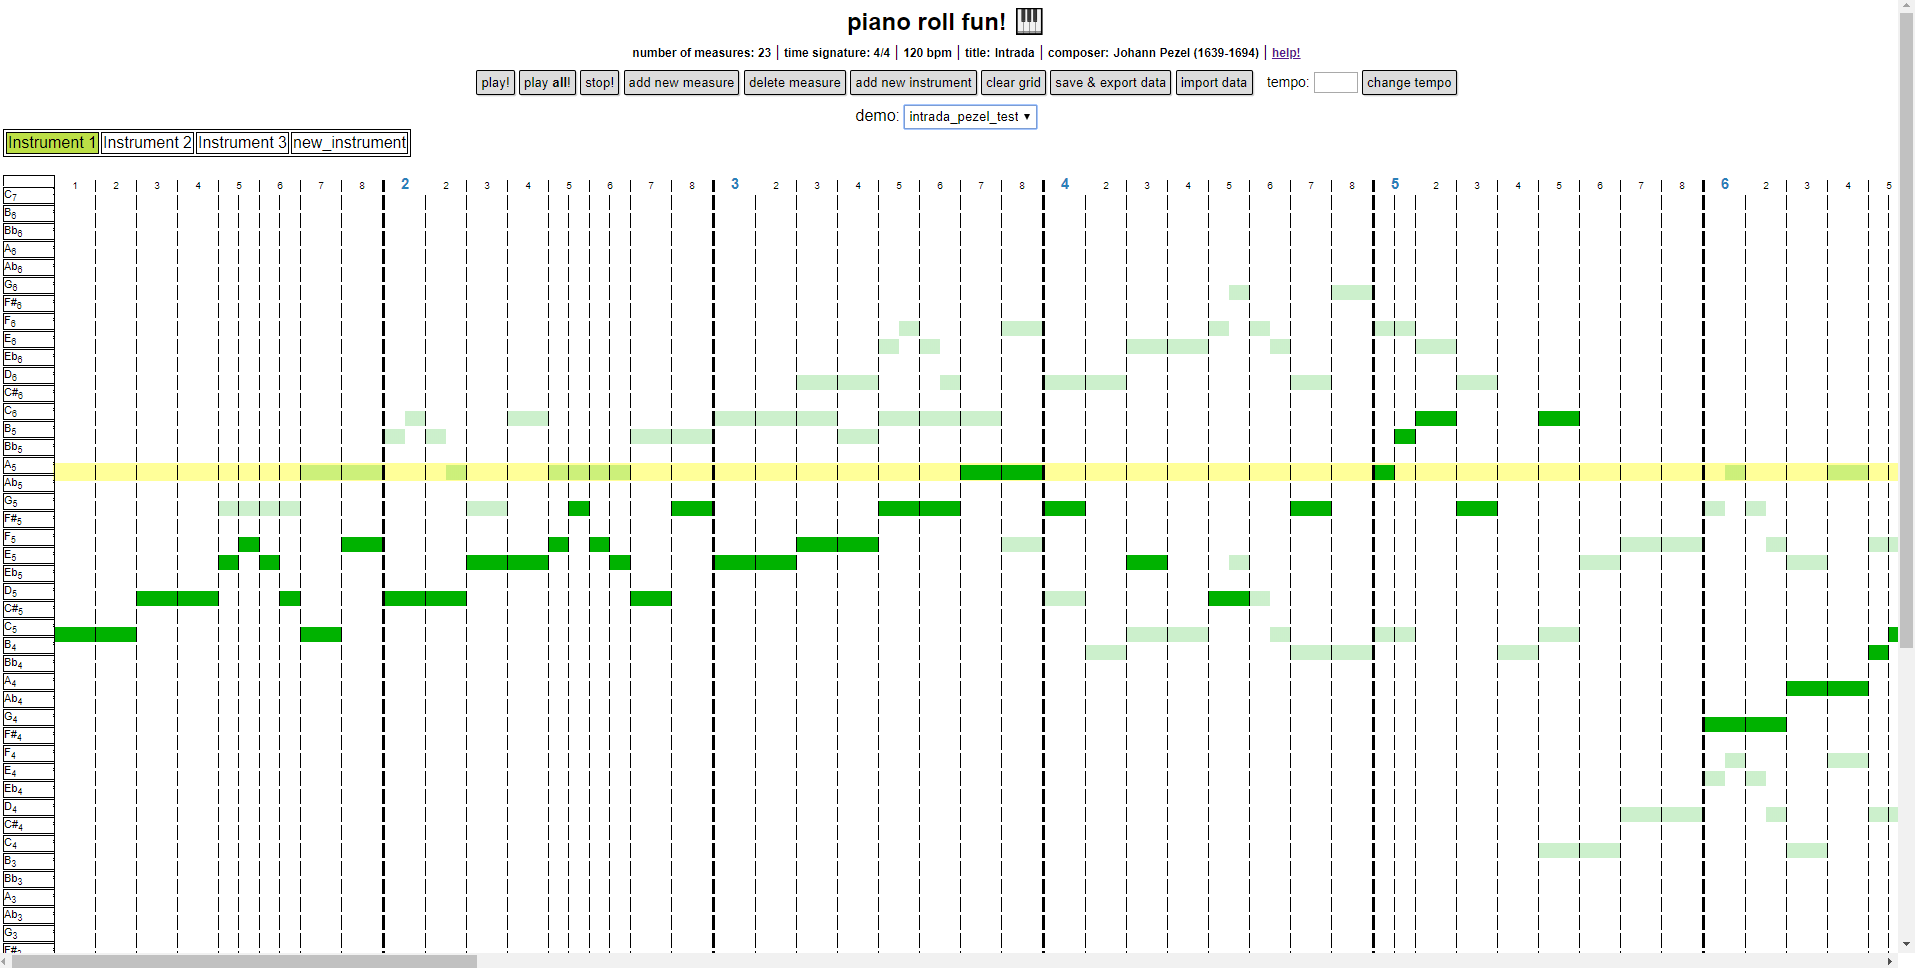
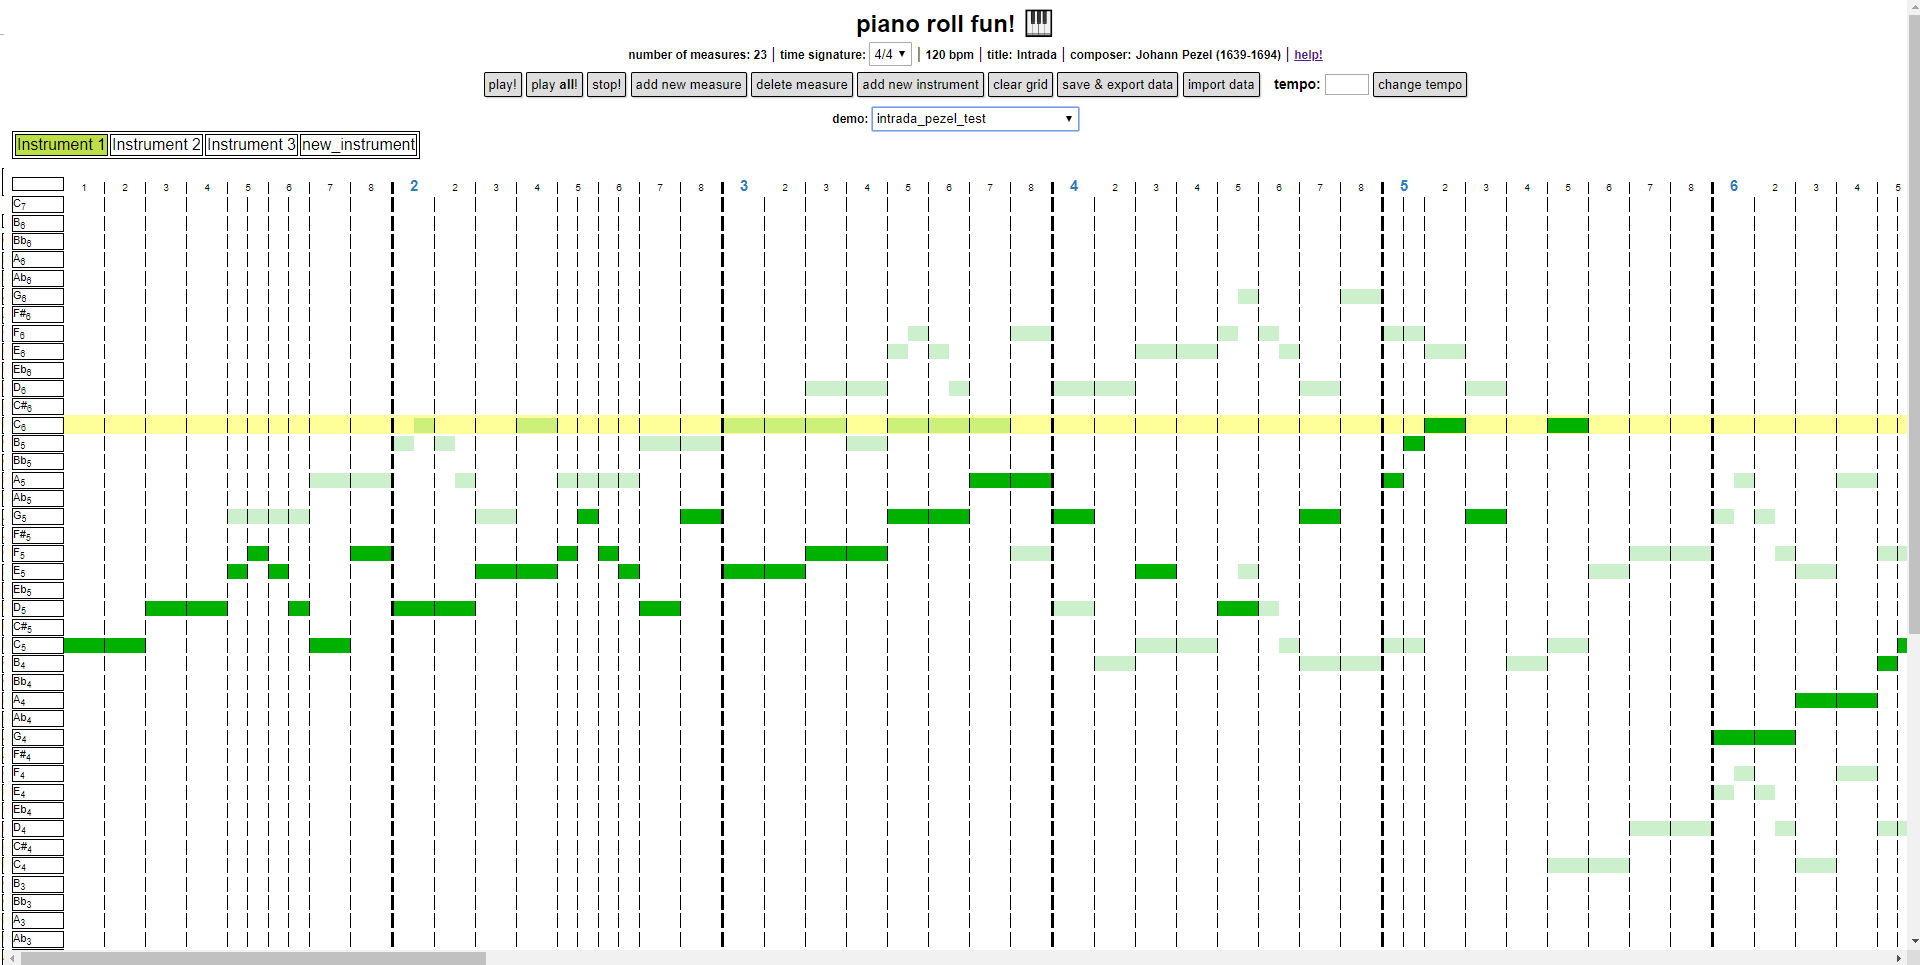
small fixes for new demo / demo loading code.

diff --git a/index.html b/index.html
@@ -193,6 +193,9 @@
 			<option>
 				sand_canyon_with_percussion
 			</option>
+			<option>
+				3_4_time_example
+			</option>
 		</select>
 	</div>
 </div>
@@ -495,9 +498,7 @@ function getFile(e){
 			pianoRoll.subdivision = data.subdivision || 8;
 			
 			// reset measure boundaries if time sig is not 4/4 
-			if(timesig !== "4/4"){
-				redrawCellBorders(pianoRoll, 'columnHeaderRow');
-			}
+			redrawCellBorders(pianoRoll, 'columnHeaderRow');
 			
 			// set new tempo acording to json data
 			var tempoText = document.getElementById("tempo");
@@ -613,10 +614,8 @@ function getDemo(selectedDemo){
 			
 		pianoRoll.subdivision = data.subdivision || 8;
 			
-		// reset measure boundaries if time sig is not 4/4 
-		if(timesig !== "4/4"){
-			redrawCellBorders(pianoRoll, 'columnHeaderRow'); // this might not be incrementing number of measures correctly!
-		}
+		// reset measure boundaries
+		redrawCellBorders(pianoRoll, 'columnHeaderRow'); 
 		
 		// set new tempo acording to json data
 		var tempoText = document.getElementById("tempo");

diff --git a/src/dom_modification.js b/src/dom_modification.js
@@ -254,6 +254,9 @@ function clearGridAll(pianoRollObject){
 
 ****/
 function addNewMeasure(pianoRollObject){
+	
+	console.log("adding new measure");
+	console.log(pianoRollObject.numberOfMeasures)
 
 	// updating the measure count - notice specific id of element! 
 	$('#measures').text( "number of measures: " + (parseInt($('#measures').text().match(/[0-9]{1,}/g)[0]) + 1) );

diff --git a/README.md b/README.md
@@ -15,20 +15,20 @@ This project is a work-in-progress :)
 check out a demo! see the demo dropdown box.    
     
 ### current potential issues:  
-can get pretty slow when changing instruments.    
+can get pretty slow when changing instruments because of the onion skin.    
 json loading seems a lot slower in Firefox compared to Chrome?     
     
 ### current next steps:    
-still need to delete instruments.    
-still need to subdivide 16th notes for 32nd notes.     
+still need to delete instruments.     
+be able to start playback at a certain measure.   
 be able to toggle onion skin?    
     
 ### features I would like to implement:    
 - ability to change color of highlight and color of note blocks, i.e. different for each instrument    
 - be able to make custom sounds!    
 - be able to record playback
-- be able to repeat a section
-- be able to start playback at a certain measure 
+- be able to repeat a section 
+- be able to subdivide 16th notes for 32nd notes.
     
 ### implementation / design:    
 
@@ -53,6 +53,8 @@ Another very important feature is the use of custom contextmenus (thanks to <a h
 Intrada - Johann Pezel (1639 - 1694). One of my favorite brass quintet pieces!    
     
 Sand Canyon (Kirby's Dream Land 3) - Jun Ishikawa
+    
+3_4_time_example - my own composition
 
 
     
